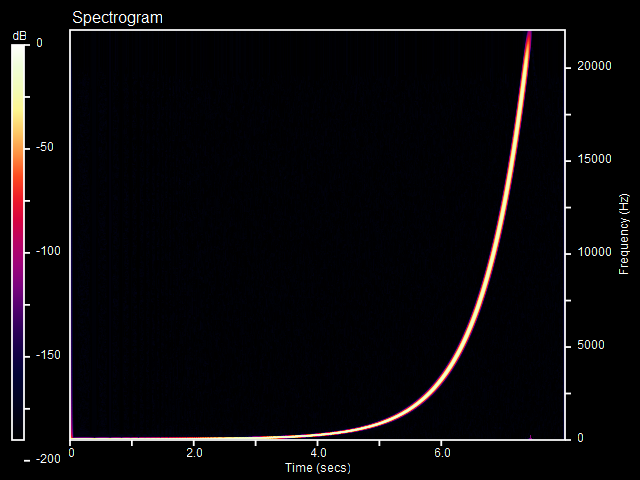
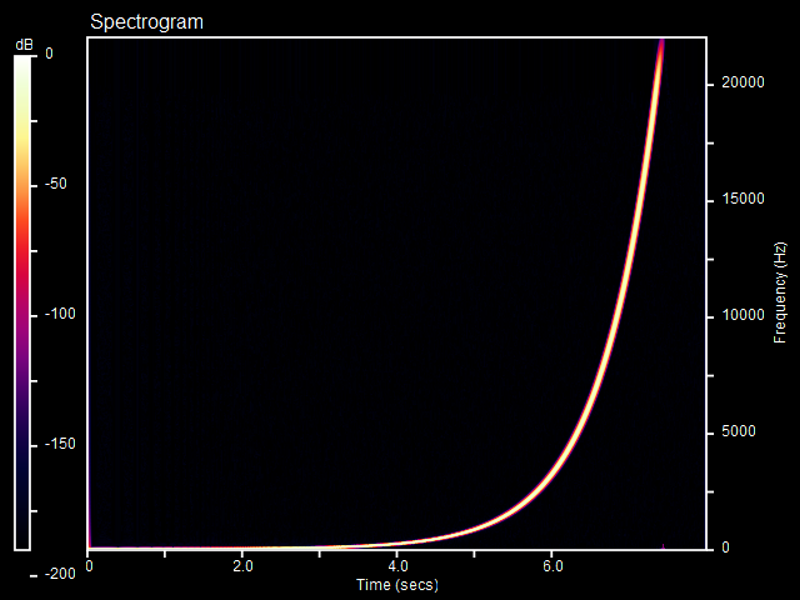
resize sweep image and fix relative image links

diff --git a/README.md b/README.md
@@ -4,10 +4,10 @@ ReSampler is a high-performance command-line audio sample rate conversion tool f
 ReSampler is intended to produce outstanding quality sound files, keeping aliasing and other unwanted artifacts to a minimum, as the following actual measurement graphs show:
 
 
-![FIR Filter response - downsample 96k->44k](https://github.com/jniemann66/ReSampler/blob/master/147_160_FIR_Frequency-response-2016-03-30-KAISER_WINDOW.JPG)   
+![FIR Filter response - downsample 96k->44k](147_160_FIR_Frequency-response-2016-03-30-KAISER_WINDOW.JPG)   
 *Typical frequency response when downsampling from 96kHz to 44.1kHz*
 
-![spectrogram: 0-48khz sweep ](https://github.com/jniemann66/ReSampler/blob/master/96khz_sweep-3dBFS_64f(to44k)-dp.png)  
+![spectrogram: 0-48khz sweep ](96khz_sweep-3dBFS_64f(to44k)-dp.png)  
 *Spectrogram of 0-48kHz Sine Sweep @96kHz sample rate, after having been downsampled to 44kHz sample rate*
 
 ## Motivation
